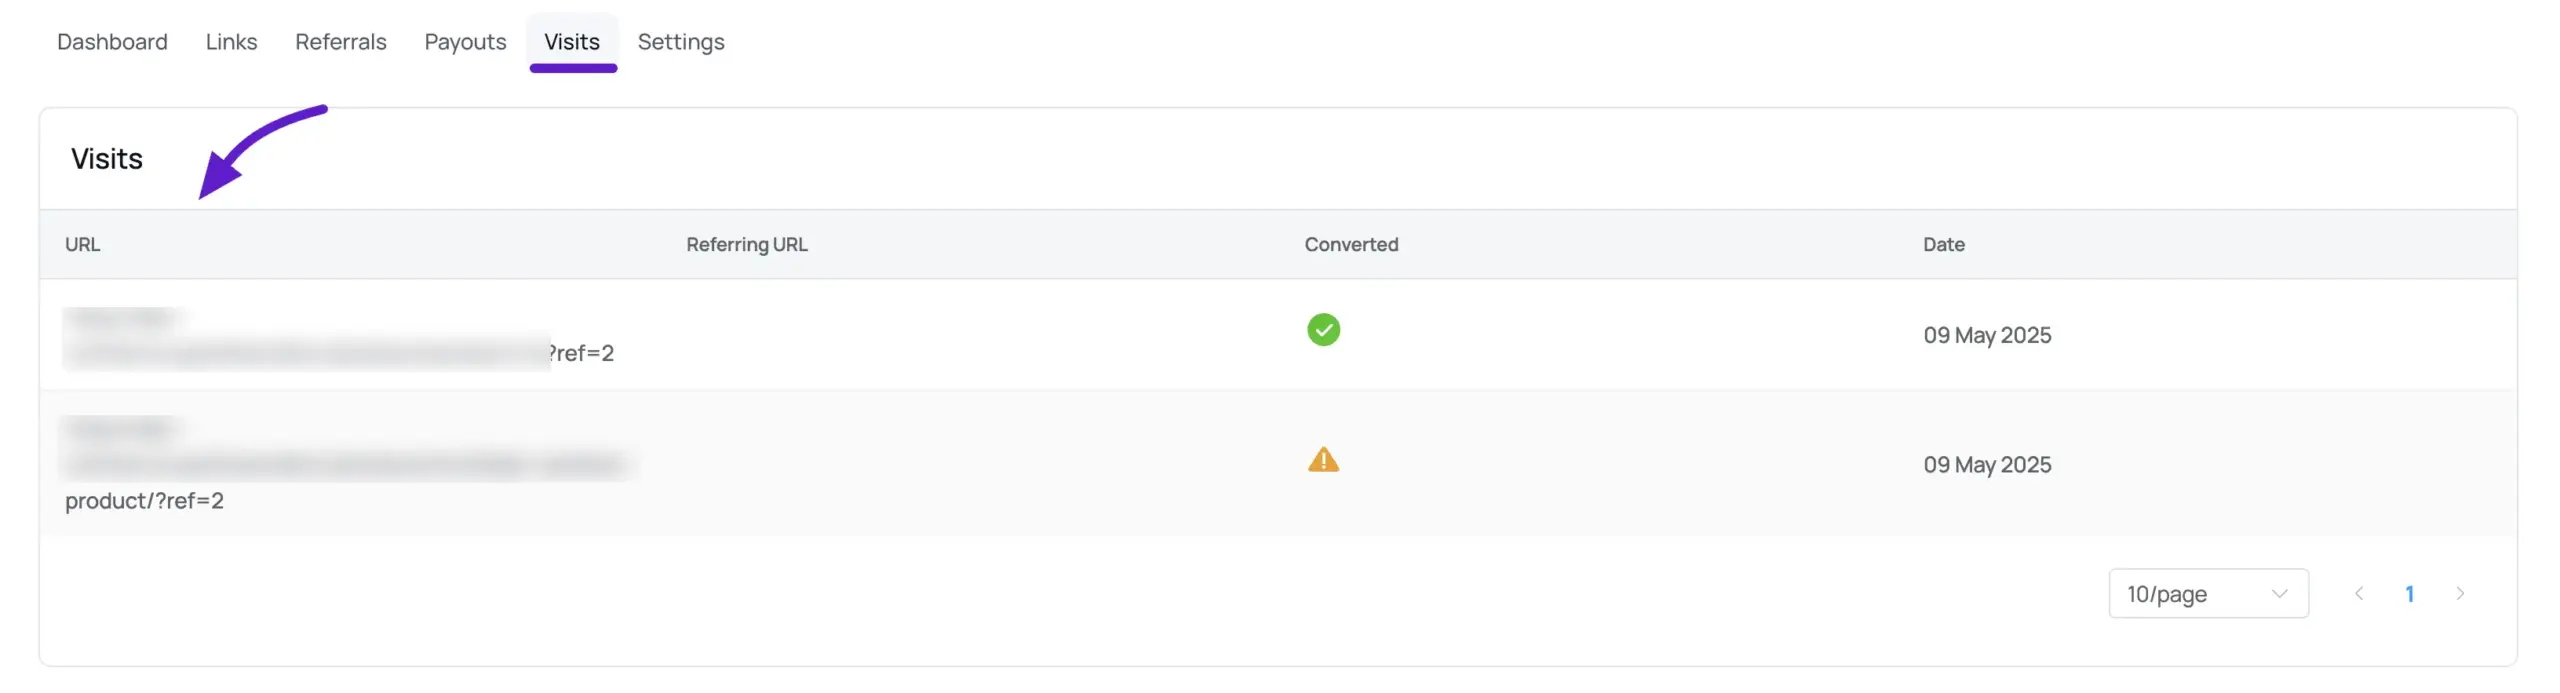
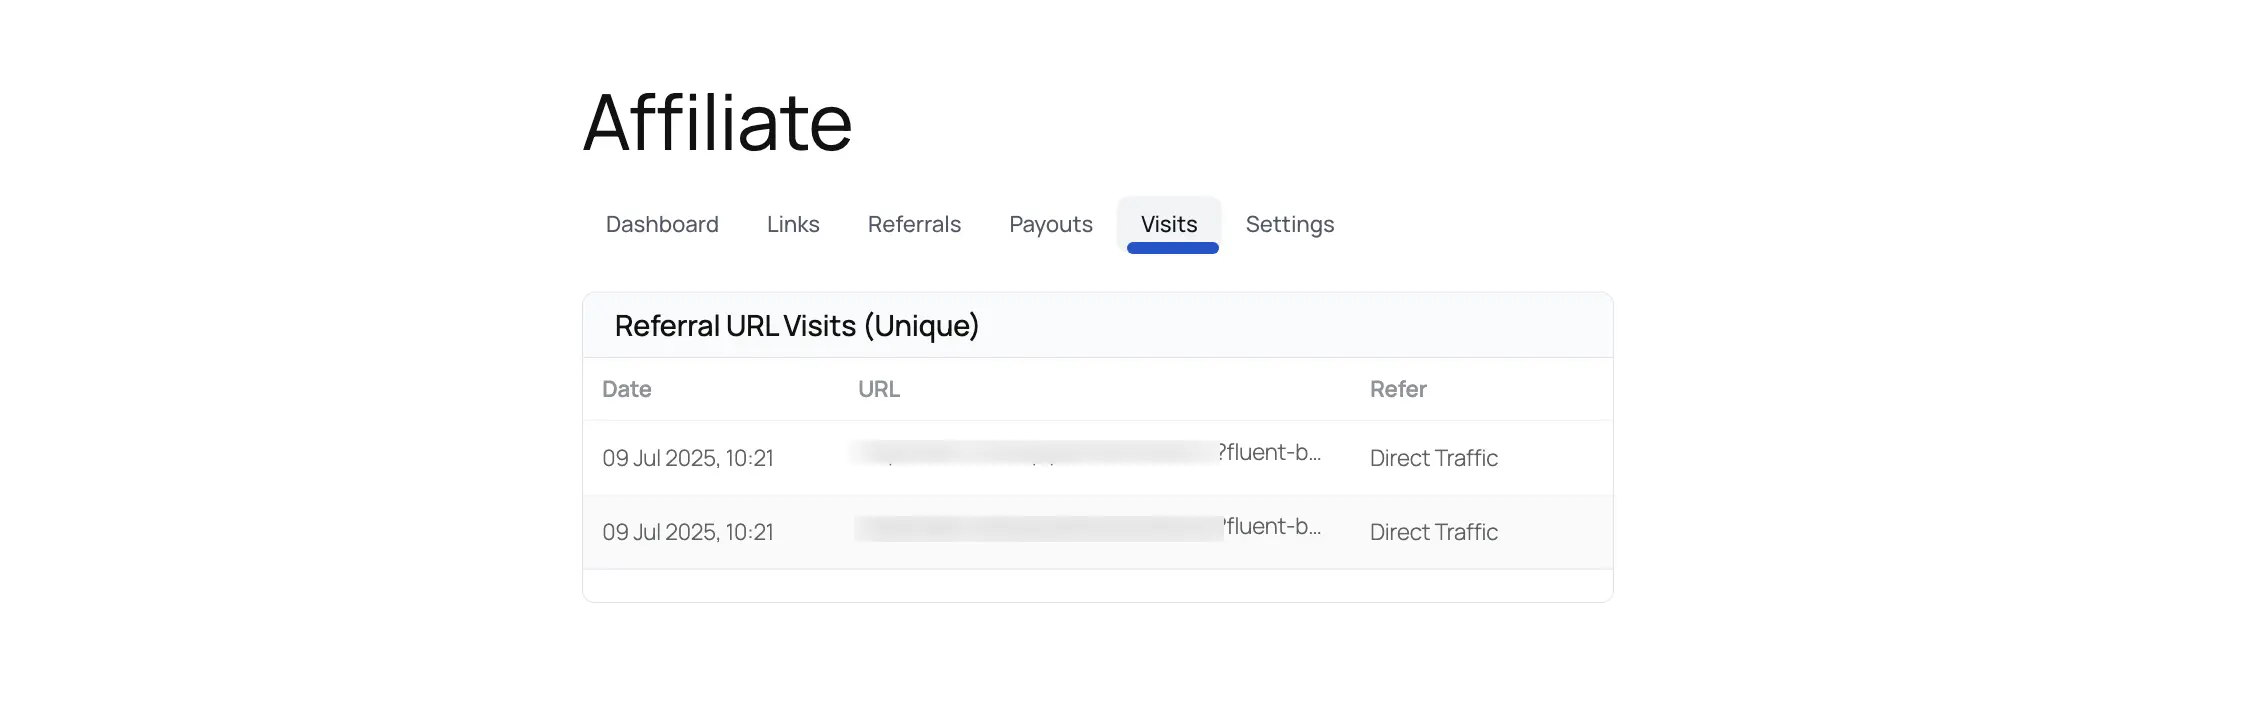
Checking Visits doc update
Checking Visits doc description change and image change

diff --git a/guide/affiliate-portal/checking-visits.md b/guide/affiliate-portal/checking-visits.md
@@ -1,21 +1,17 @@
 # Checking Visits
 
-The Visits section in the FluentAffiliate User Portal helps affiliates track all the clicks they receive on their affiliate links. It gives a clear view of how their promotions are performing.
+The Visits section helps you track all the clicks you receive on your affiliate links. It’s a great way to see if your promotional efforts are successfully driving traffic to the website.
 
-## Visits
+To check your visits, log in to your affiliate portal and click on the **Visits** tab in the main navigation.
 
-To check visits, the affiliate needs to log into their account and click on the **Visits** tab from the top menu of the user dashboard.
+## Referral URL Visits (Unique)
 
-Once there, they will see a table with detailed information for each visit:
+This table provides a clean, simple log of the unique clicks your affiliate links have received. Each row represents a single visit and contains the following information:
 
-* **URL**: The URL that was clicked by the visitor.
-* **Referring URL:** Displays the webpage URL where the affiliate link was clicked.
-* **Converted**: Shows whether the visit led to a successful referral or not. If it is marked "Green Tick," the visitor completed a conversion. If it shows a "Warning Icon," the visitor didn't convert.
-* **User Agent**: Displays the browser and device information used by the visitor.
-* **Date**: The exact time and date when someone clicked the affiliate link.
-
-This section gives affiliates a complete overview of their link activity and helps them understand which channels or content are performing best.
+* **Date:** The exact date and time the visitor clicked your link.
+* **URL:** The specific affiliate link that was clicked.
+* **Refer:** This shows where the click came from. 
 
 ![Visits User Portal](/guide/public/images/affiliate-portal/visits/visits-tracking-overview.webp)
 
-
+This section gives affiliates a complete overview of their link activity and helps them understand which channels or content are performing best.
